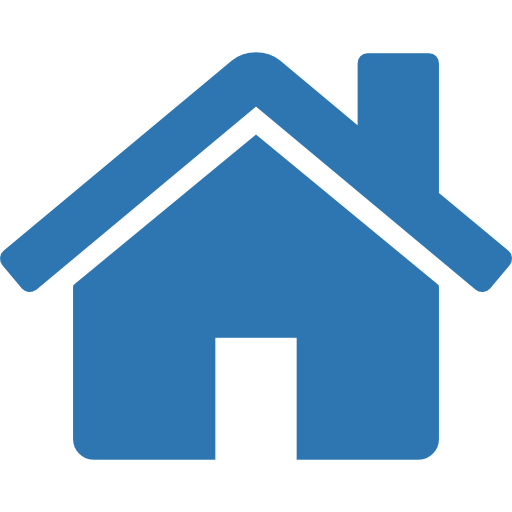
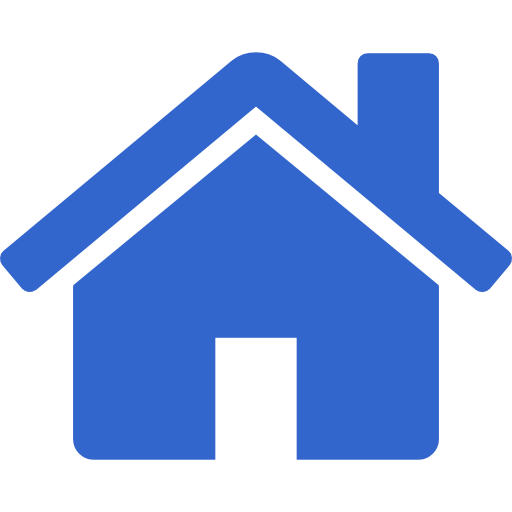
💎 added some nice stuff/ too lazy to write somthing good

diff --git a/src/popup/popup.css b/src/popup/popup.css
@@ -11,14 +11,14 @@ h1 {
     font-size: 24px;
     margin-bottom: 20px;
     text-align: center;
-    color: #2d76b2;
+    color: #3366cc;
     text-shadow: 1px 1px 2px rgba(0, 0, 0, 0.1);
 }
 
 h3 {
     font-size: 15px;
     font-weight: bold;
-    color: #2d76b2;
+    color: #3366cc;
     text-shadow: 1px 1px 2px rgba(0, 0, 0, 0.1);
 }
 
@@ -37,7 +37,7 @@ h3 {
     border-radius: 10px;
     margin: 0 5px;
     background-color: #eef1f6;
-    color: #2d76b2;
+    color: #3366cc;
     box-shadow: 0 2px 4px rgba(0, 0, 0, 0.1);
     transition: background-color 0.3s, box-shadow 0.3s;
 }
@@ -48,7 +48,7 @@ h3 {
 }
 
 .tab.active {
-    background-color: #2d76b2;
+    background-color: #3366cc;
     color: #f7f9fc;
     box-shadow: 0 4px 8px rgba(0, 0, 0, 0.2);
 }
@@ -61,7 +61,7 @@ h3 {
     width: 24px;
     height: 24px;
     transition: transform 0.3s;
-    fill: #2d76b2;
+    fill: #3366cc;
 }
 
 .settings-icon:hover {
@@ -76,7 +76,7 @@ h3 {
     width: 20px;
     height: 20px;
     transition: transform 0.3s;
-    fill: #2d76b2;
+    fill: #3366cc;
 }
 
 .home-icon:hover {
@@ -105,7 +105,7 @@ h3 {
 .loader {
     border: 4px solid rgba(51, 102, 204, 0.3);
     border-radius: 50%;
-    border-top: 4px solid #2d76b2;
+    border-top: 4px solid #3366cc;
     width: 24px;
     height: 24px;
     animation: spin 0.5s linear infinite, slowSpin 2s linear infinite 0.5s;
@@ -123,7 +123,7 @@ h3 {
 
 .loader-text {
     margin-top: 10px;
-    color: #2d76b2;
+    color: #3366cc;
     font-size: 16px;
 }
 
@@ -154,7 +154,7 @@ h3 {
     font-size: 20px;
     margin-bottom: 15px;
     text-align: center;
-    color: #2d76b2;
+    color: #3366cc;
 }
 
 .content p {
@@ -175,11 +175,141 @@ h3 {
 }
 
 .content ul li a {
-    color: #2d76b2;
+    color: #3366cc;
     text-decoration: none;
     font-weight: bold;
 }
 
 .content ul li a:hover {
     text-decoration: underline;
+}
+
+.preset-label {
+    display: block;
+    margin-bottom: 10px;
+    font-size: 14px;
+    color: #3366cc;
+    font-weight: bold;
+}
+
+.preset-button, .preset-select {
+    width: 100%;
+    padding: 10px;
+    margin: 10px 0;
+    border: 1px solid #ccc;
+    border-radius: 10px;
+    font-size: 16px;
+    box-sizing: border-box;
+    background-color: #eef1f6;
+    color: #3366cc;
+    box-shadow: 0 2px 4px rgba(0, 0, 0, 0.1);
+    transition: background-color 0.3s, box-shadow 0.3s;
+}
+
+.preset-button:hover {
+    background-color: #d4e1f5;
+    box-shadow: 0 4px 8px rgba(0, 0, 0, 0.2);
+}
+
+.preset-button:active {
+    box-shadow: 0 2px 4px rgba(0, 0, 0, 0.1);
+}
+
+.copy-checkbox {
+    display: block;
+    margin-bottom: 10px;
+    font-size: 14px;
+    color: #3366cc;
+    cursor: pointer;
+}
+
+.copy-checkbox input[type="checkbox"] {
+    margin-right: 10px;
+}
+
+.copy-button {
+    width: 100%;
+    padding: 10px;
+    margin: 10px 0;
+    border: 1px solid #ccc;
+    border-radius: 10px;
+    font-size: 16px;
+    box-sizing: border-box;
+    background-color: #eef1f6;
+    color: #3366cc;
+    box-shadow: 0 2px 4px rgba(0, 0, 0, 0.1);
+    transition: background-color 0.3s, box-shadow 0.3s;
+    cursor: pointer;
+}
+
+.copy-button:hover {
+    background-color: #d4e1f5;
+    box-shadow: 0 4px 8px rgba(0, 0, 0, 0.2);
+}
+
+.copy-button:active {
+    box-shadow: 0 2px 4px rgba(0, 0, 0, 0.1);
+}
+
+.log-textbox {
+    width: 100%;
+    height: 100px;
+    margin-top: 20px;
+    padding: 10px;
+    border: 1px solid #ccc;
+    border-radius: 10px;
+    font-size: 14px;
+    box-sizing: border-box;
+    background-color: #eef1f6;
+    color: #333;
+    resize: none;
+    box-shadow: 0 2px 4px rgba(0, 0, 0, 0.1);
+    display: none;
+}
+
+.log-textbox.active {
+    display: block;
+}
+
+#moreTitle {
+    font-size: 16px;
+    margin-bottom: 10px;
+    text-align: center;
+    color: #3366cc;
+}
+
+#moreSubtitle {
+    font-size: 14px;
+    margin-bottom: 10px;
+    text-align: center;
+    color: #333;
+}
+
+.settings-label {
+    display: block;
+    margin-bottom: 10px;
+    font-size: 14px;
+    color: #3366cc;
+    font-weight: bold;
+}
+
+.settings-select {
+    width: 100%;
+    padding: 10px;
+    margin: 10px 0;
+    margin-top: 0;
+    border: 1px solid #ccc;
+    border-radius: 10px;
+    font-size: 16px;
+    box-sizing: border-box;
+    background-color: #eef1f6;
+    color: #3366cc;
+    box-shadow: 0 2px 4px rgba(0, 0, 0, 0.1);
+    transition: background-color 0.3s, box-shadow 0.3s;
+}
+
+.settings-select[disabled] {
+    background-color: #ddd;
+    color: #888;
+    cursor: not-allowed;
 }

diff --git a/src/popup/popup.html b/src/popup/popup.html
@@ -44,22 +44,50 @@
 
                 <!-- Preset -->
                 <div id="panePreset" class="content">
-                    <p>Preset</p>
+                    <!-- <label for="presetSelect" class="preset-label" id="presetSelectLabel"></label> -->
+                    <select id="presetSelect" class="preset-select">
+                        <option value="presetBetrieb" id="presetBetrieb"></option>
+                        <option value="presetSchule" id="presetSchule"></option>
+                        <option value="presetUrlaub" id="presetUrlaub"></option>
+                    </select>
+                    <button id="usePresetButton" class="preset-button"></button>
                 </div>
 
                 <!-- Copy & Paste -->
                 <div id="paneCopyPaste" class="content">
-                    <p>Copy & Paste</p>
+                    <label class="copy-checkbox">
+                        <input type="checkbox" id="rephraseCheckbox" />
+                        Rephrase using AI
+                    </label>
+                    <label class="copy-checkbox">
+                        <input type="checkbox" id="comingSoonCheckbox" disabled />
+                        Coming Soon
+                    </label>
+                
+                    <button id="oneDayButton" class="copy-button"></button>
+                    <button id="wholeWeekButton" class="copy-button"></button>
+                
+                    <textarea id="logTextbox" class="log-textbox" placeholder="..." readonly></textarea>
                 </div>
                 
                 <!-- More -->
                 <div id="paneMore" class="content">
-                    <p>More</p>
+                    <h2 id="moreTitle"></h2>
+                    <p id="moreSubtitle"></p>
                 </div>
 
                 <!-- Settings -->
                 <div id="paneSettings" class="content">
-                    <p>Settings</p>
+                    <!-- Theme Section (Coming Soon) -->
+                    <label id="themeSelectLabel" for="themeSelect" class="settings-label"></label>
+                    <select id="themeSelect" class="settings-select" disabled>
+                        <option value="light" id="light"></option>
+                        <option value="dark" id="dark"></option>
+                    </select>
+                
+                    <!-- Language Section -->
+                    <label id="languageSelectLabel" for="languageSelect" class="settings-label"></label>
+                    <select id="languageSelect" class="settings-select"></select>
                 </div>
             </div>
         </div>

diff --git a/src/popup/eventHandlers.js b/src/popup/eventHandlers.js
@@ -1,5 +1,5 @@
 import { getCache, setCache } from '../utils/cache.js';
-import { getCurrentLang, getLangData } from '../utils/lang.js';
+import { getCurrentLang, getLangData, listLangs } from '../utils/lang.js';
 
 export function initializeEventHandlers() {
     const tabs = document.querySelectorAll('.tab');
@@ -96,8 +96,24 @@ async function initializeContent(tabs, contents) {
         }
     });
 
+    const langSelect = document.getElementById('languageSelect');
+    const langs = await listLangs();
+
+    langs.forEach( async (tLang) => {
+        const langDataOfLang = await getLangData(tLang);
+        const option = document.createElement('option');
+        option.value = tLang;
+        option.id = tLang;
+        option.innerText = langDataOfLang['name'];
+        langSelect.appendChild(option);
+
+        if (lang === tLang) {
+            option.selected = true;
+        }
+    });
+
     const cache = getCache();
-    if (cache.lastPane) {
+    if (checkIfOnRightSite && cache.lastPane) {
         const homePane = document.getElementById('paneHome');
         homePane.classList.remove('active');
         homePane.style.display = 'none';

diff --git a/src/utils/lang.js b/src/utils/lang.js
@@ -5,10 +5,12 @@ async function listLangs() {
     const maybeLangs = ['en', 'de', 'tr']; // adding more languages soon
 
     for (const lang of maybeLangs) {
-        const response = await fetch(`../../locales/${lang}.json`);
-        
-        if (response.ok)
-            langs.push(lang);
+        try {
+            const response = await fetch(`../../locales/${lang}.json`);
+            if (response.ok) langs.push(lang);
+        } catch (error) {
+            console.log(error);
+        }
     }
 
     return langs;
